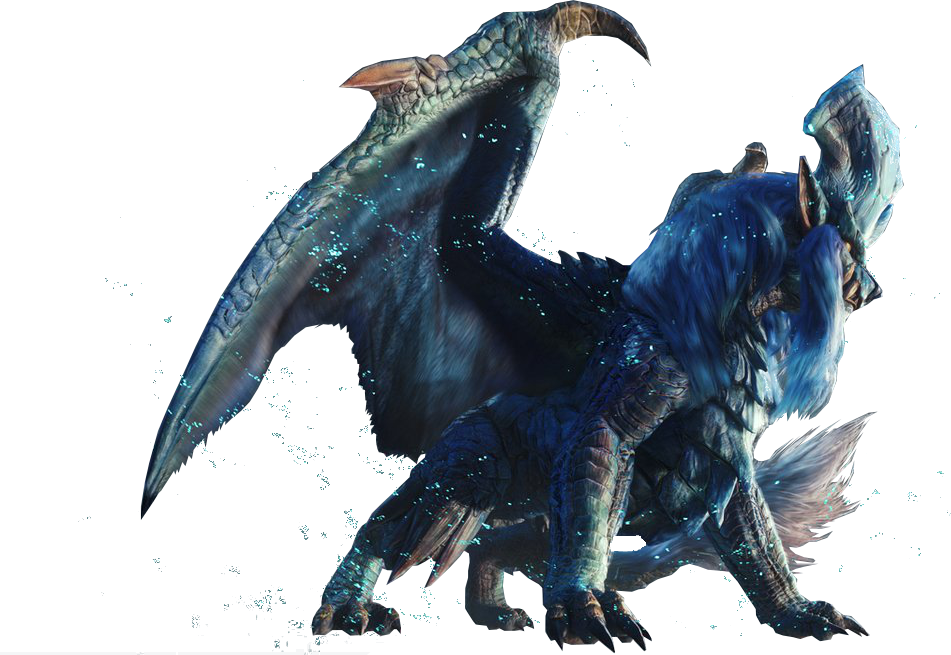
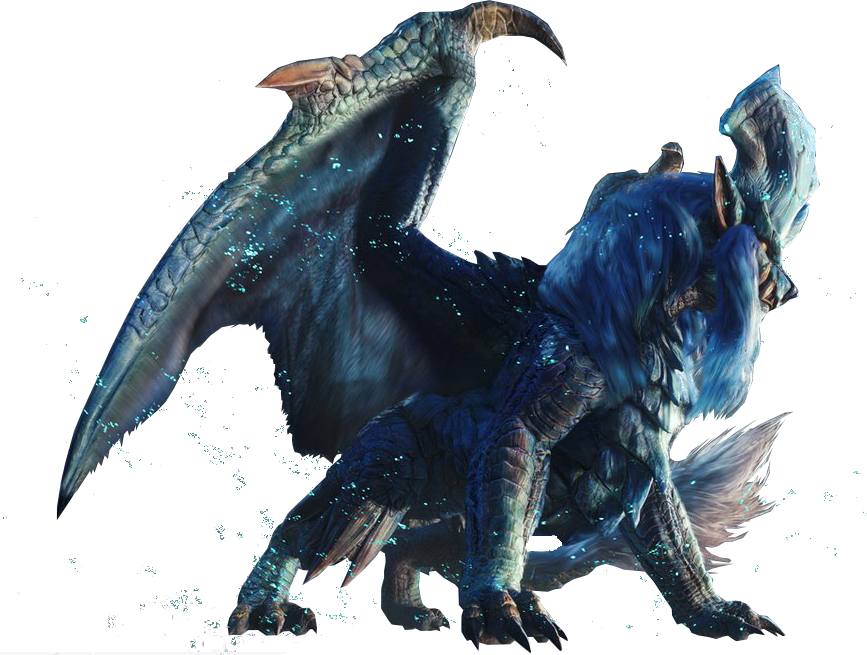
이미지크기조정

diff --git a/monster/lunastra.html b/monster/lunastra.html
@@ -6,7 +6,7 @@
 <br /><h2>육질표</h2><br />
 <div class="sp_table_scroll">
 
-<img src="../images/lunastra.png" width="370px" height="240px" style="display:inline-block; float:left; margin-right:5px;"/>
+<img src="../images/lunastra.png" width="370px" height="270px" style="display:inline-block; float:left; margin-right:5px;"/>
 
 <table border="1" class="niku">
 	<tr>
